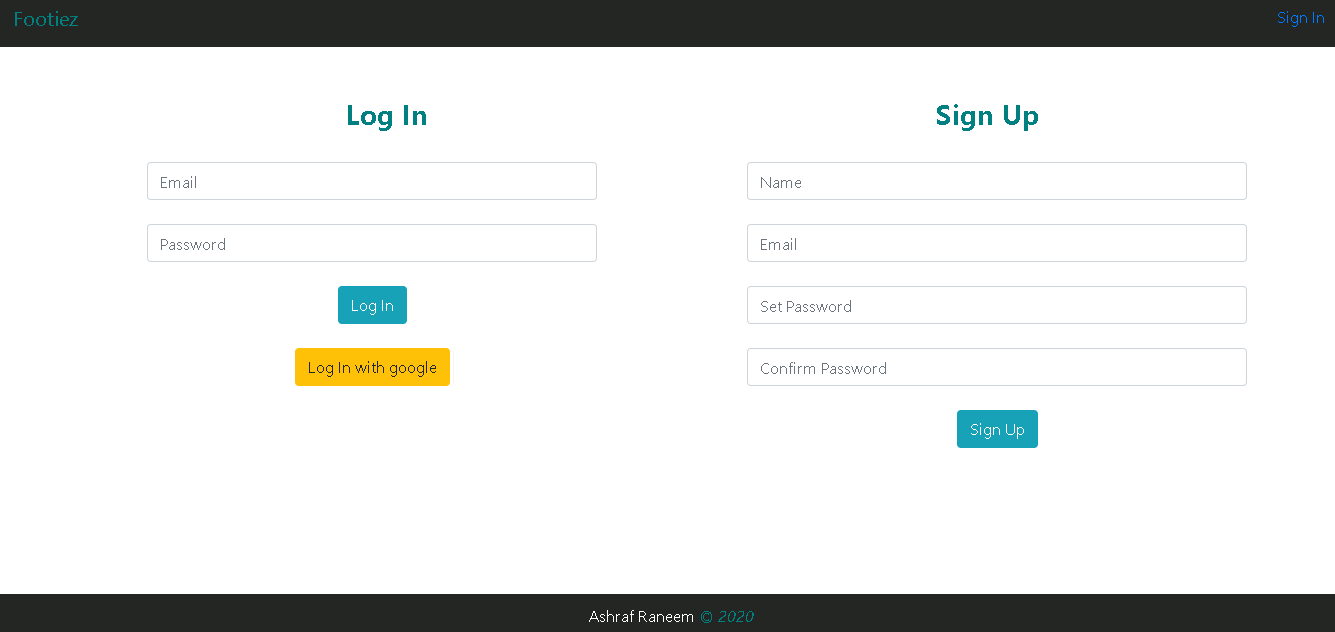
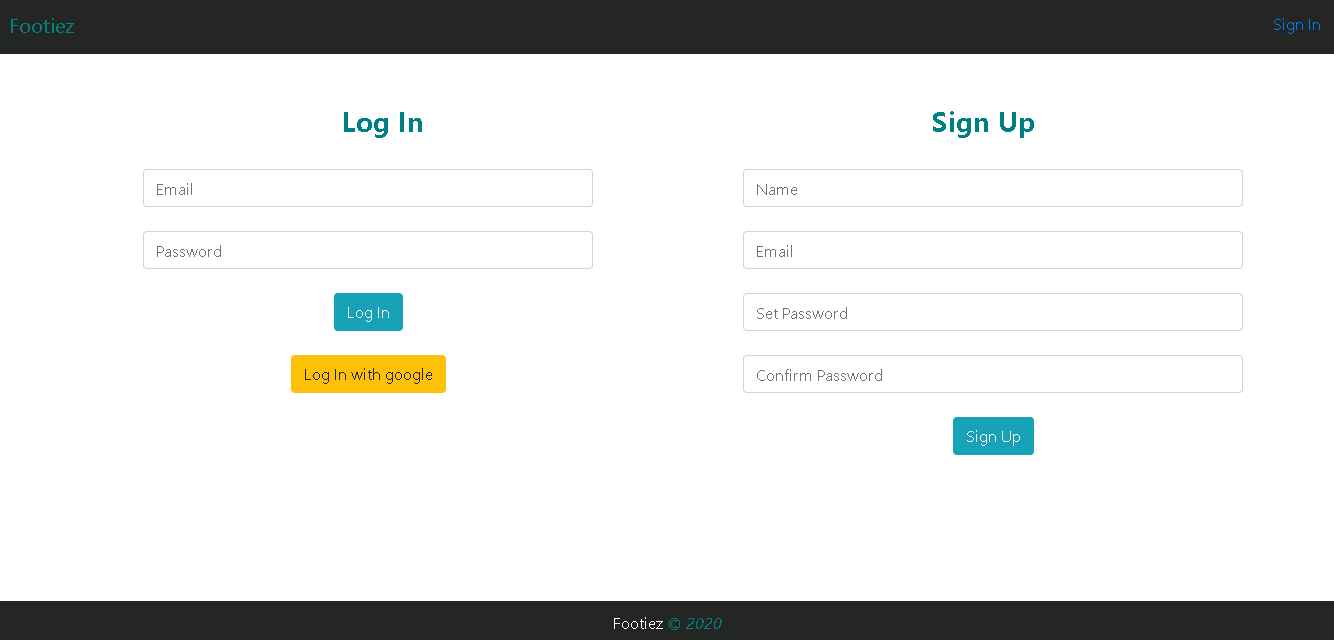
readme file changed

diff --git a/src/components/inputHandler/inputHandler.component.jsx b/src/components/inputHandler/inputHandler.component.jsx
@@ -96,7 +96,6 @@ render () {
             <h3>Round : 1 </h3>
             <h3> Timer {count}</h3>
             <div className='cover'>
-            
             { collections.map(({id,question,answers,...otherProps})=> 
             <FormGroup   key={id} check>
             <Label key={id}{...otherProps} className='questionText' check>{question}</Label>

diff --git a/src/components/footer/footer.component.jsx b/src/components/footer/footer.component.jsx
@@ -3,7 +3,7 @@ import './footer.styles.css'
 const Footer = () => {
     return ( 
         <div className='footerDiv'>
-            <p > Ashraf Raneem <em> &copy; 2020</em></p>
+            <p > Footiez <em> &copy; 2020</em></p>
         </div>
     )
 }

diff --git a/src/components/inputHandler/questions.js b/src/components/inputHandler/questions.js
@@ -44,7 +44,6 @@ var Data = [
             {option: 2, ans : 'Liverpool'}
         ],
         correctAns : 'Real Madrid'
-    },  
-
+    }
 ]
 export default Data

diff --git a/README.md b/README.md
@@ -11,10 +11,8 @@ The technologies used to create this application is ReactJs and CSS for the fron
  Here are some of the screenshots of the pages: 
 
  ## Sign up and Login Page 
-![picture alt](./public/CoverPage_SC.png)
+![picture alt](./public/SignIn_SC.png)
 
  ## The Information Page 
-![picture alt](./public/CoverPage_SC.png)
+![picture alt](./public/homepage.png)
 
-## The Quiz Page 
-![picture alt](./public/CoverPage_SC.png)
